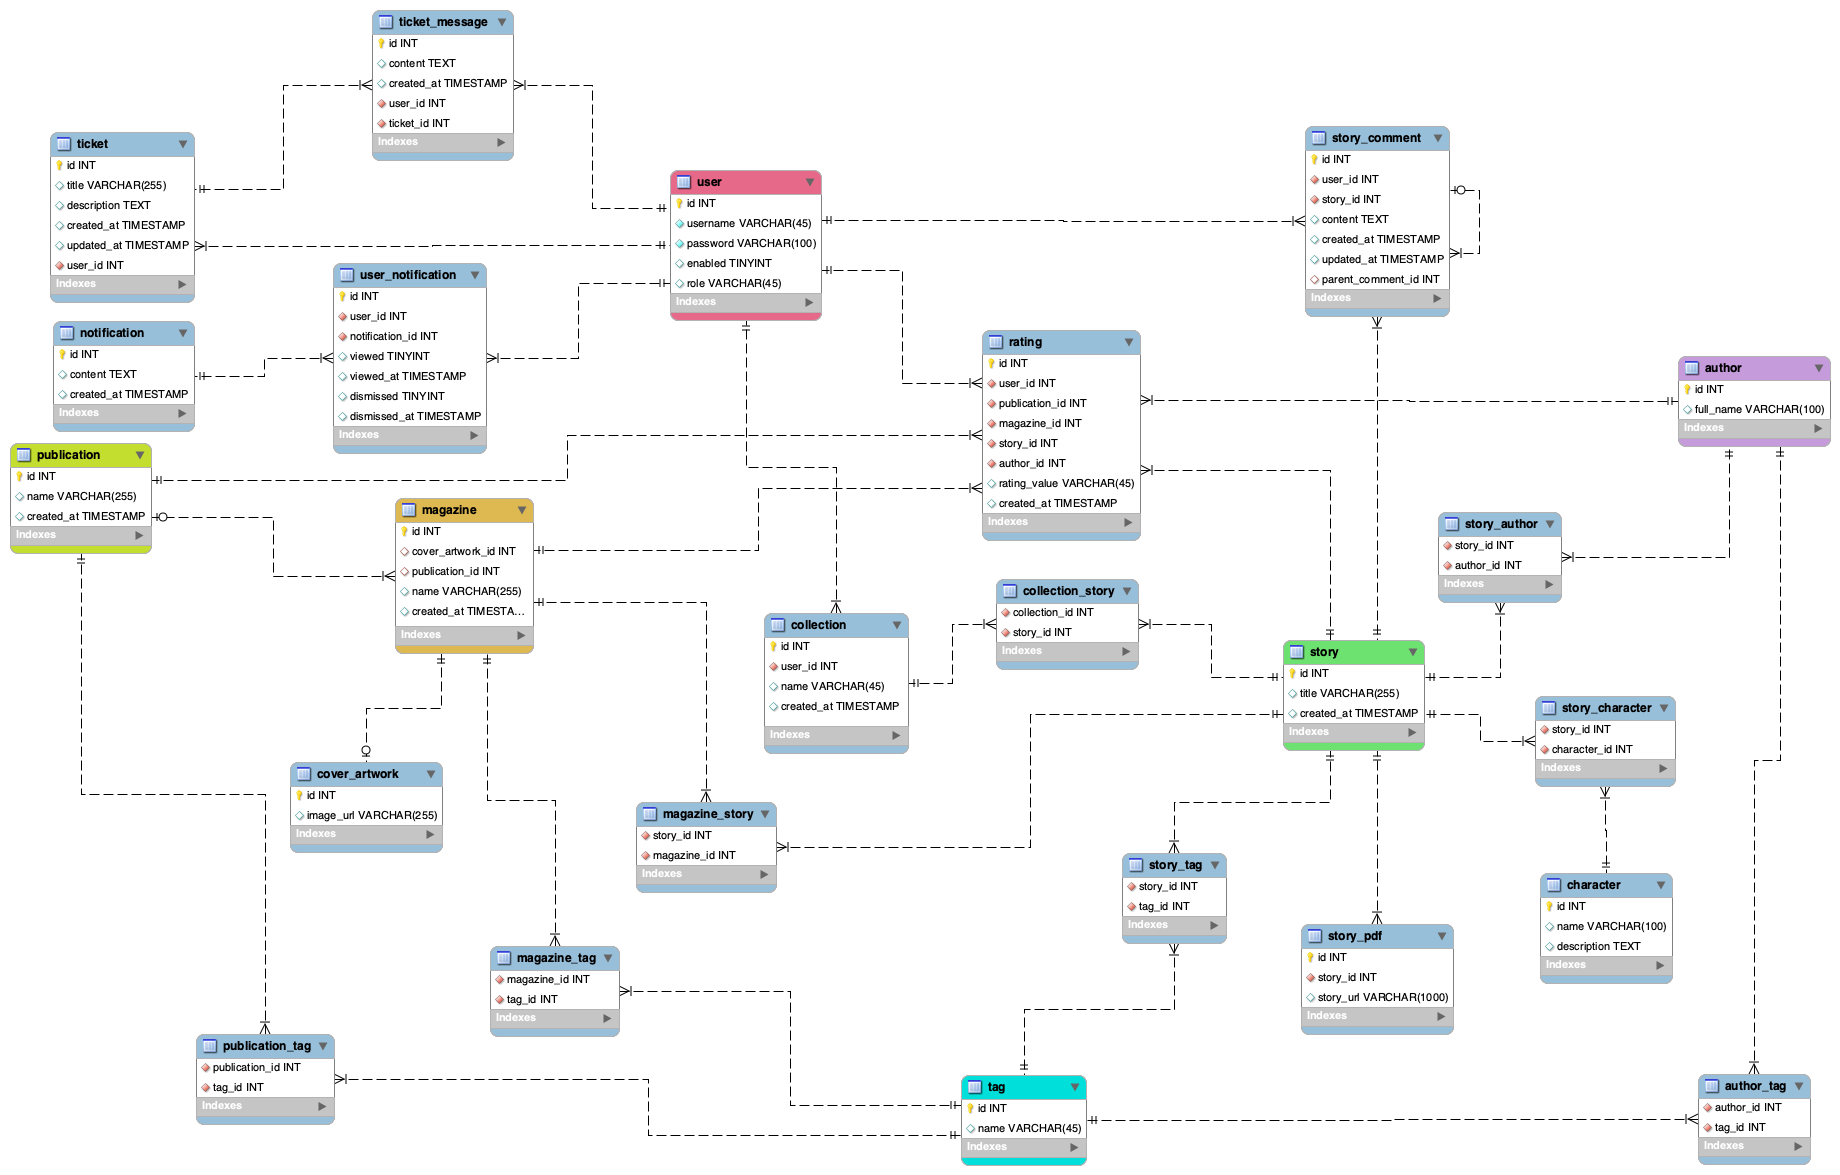
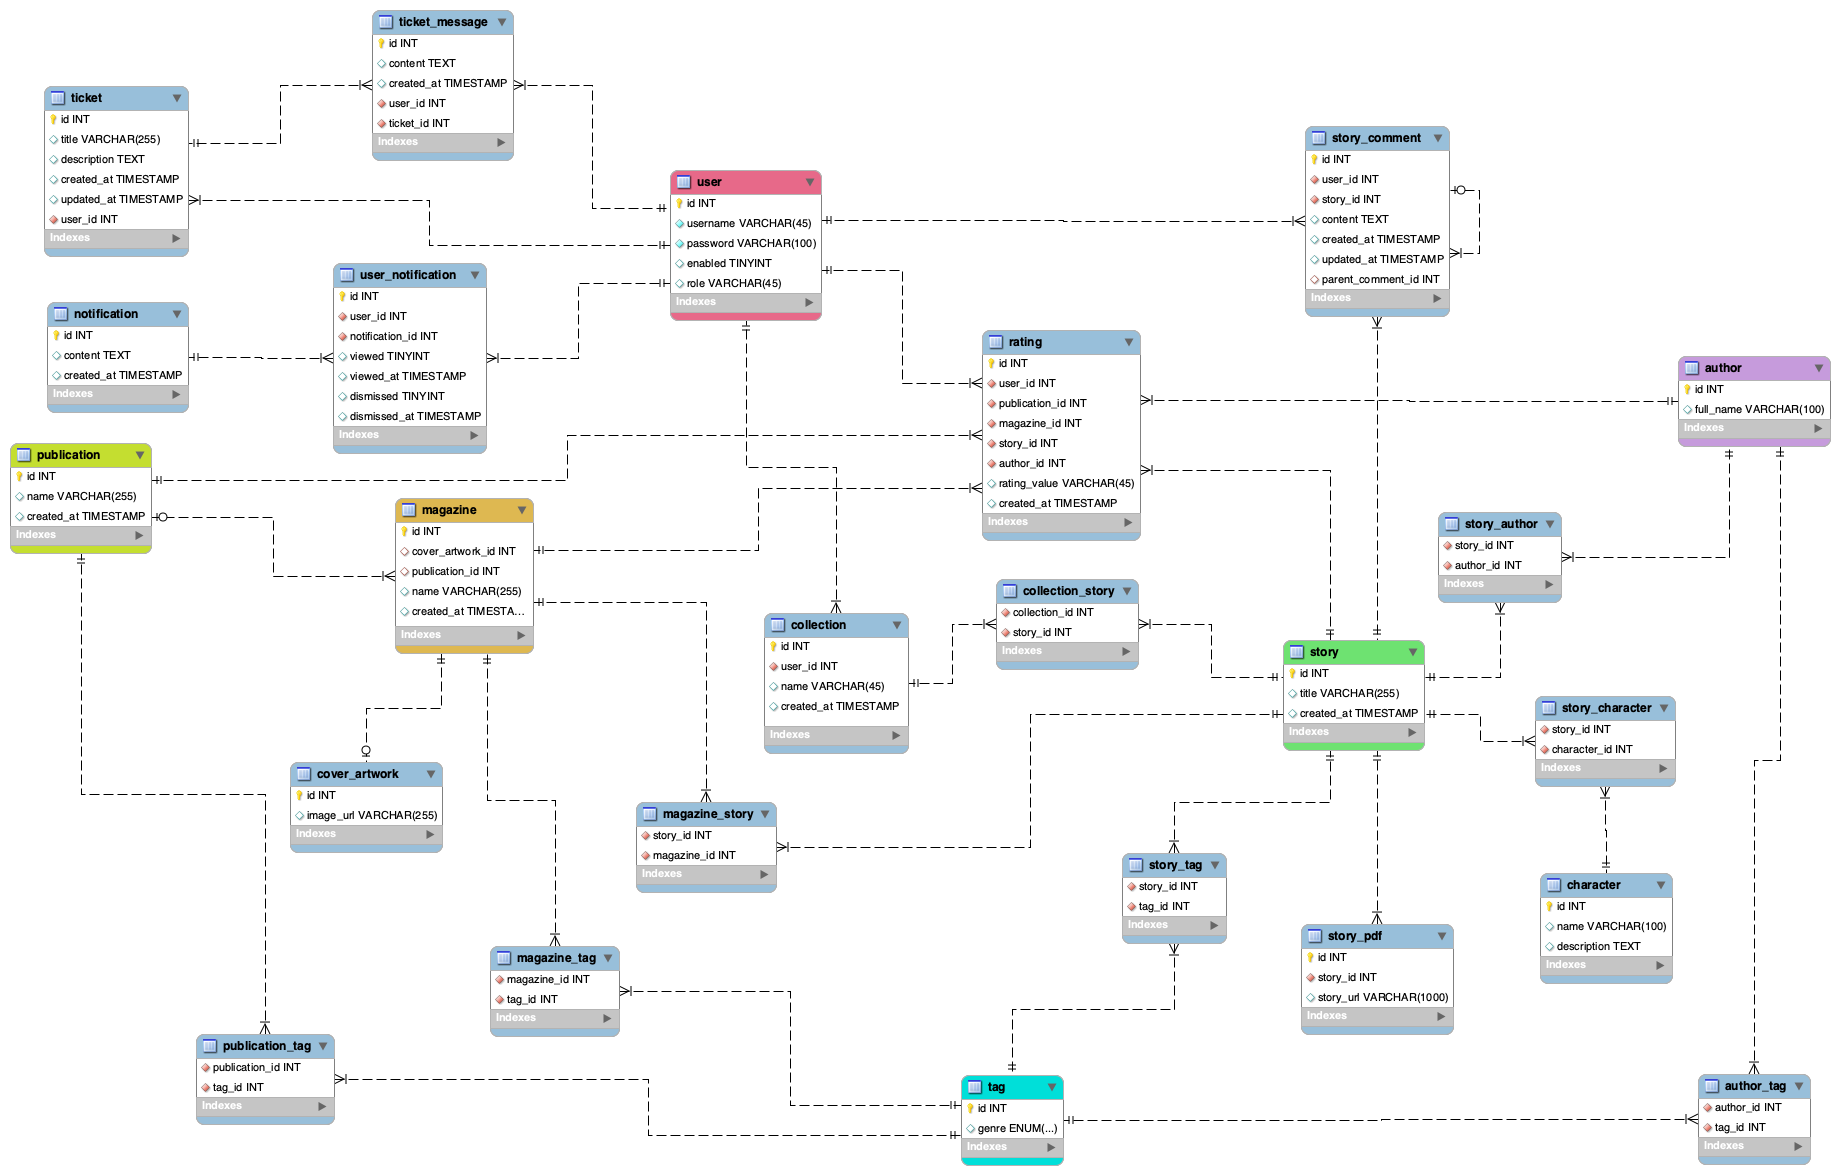
Create column in database table for tag entity called genre which is of type enum. Also stub out enum file to hold necessary enums for tags. Create entity class for tag.

Changed region(s): [[0.0, 0.0613, 0.1239, 0.3677], [0.5266, 0.9191, 0.5886, 1.0]]

diff --git a/JPAThePulps/src/main/java/com/skilldistillery/thepulps/enums/Genre.java b/JPAThePulps/src/main/java/com/skilldistillery/thepulps/enums/Genre.java
@@ -1,0 +1,6 @@
+package com.skilldistillery.thepulps.enums;
+
+public enum Genre {
+	DETECTIVE_CRIME, HORROR, WESTERN, ADVENTURE, ROMANCE, SCIENCE_FICTION, FANTASY, WAR_AND_AIR_COMBAT, SPORTS
+
+}

diff --git a/JPAThePulps/src/main/java/com/skilldistillery/thepulps/entities/Tag.java b/JPAThePulps/src/main/java/com/skilldistillery/thepulps/entities/Tag.java
@@ -1,0 +1,8 @@
+package com.skilldistillery.thepulps.entities;
+
+import javax.persistence.Entity;
+
+@Entity
+public class Tag {
+
+}
